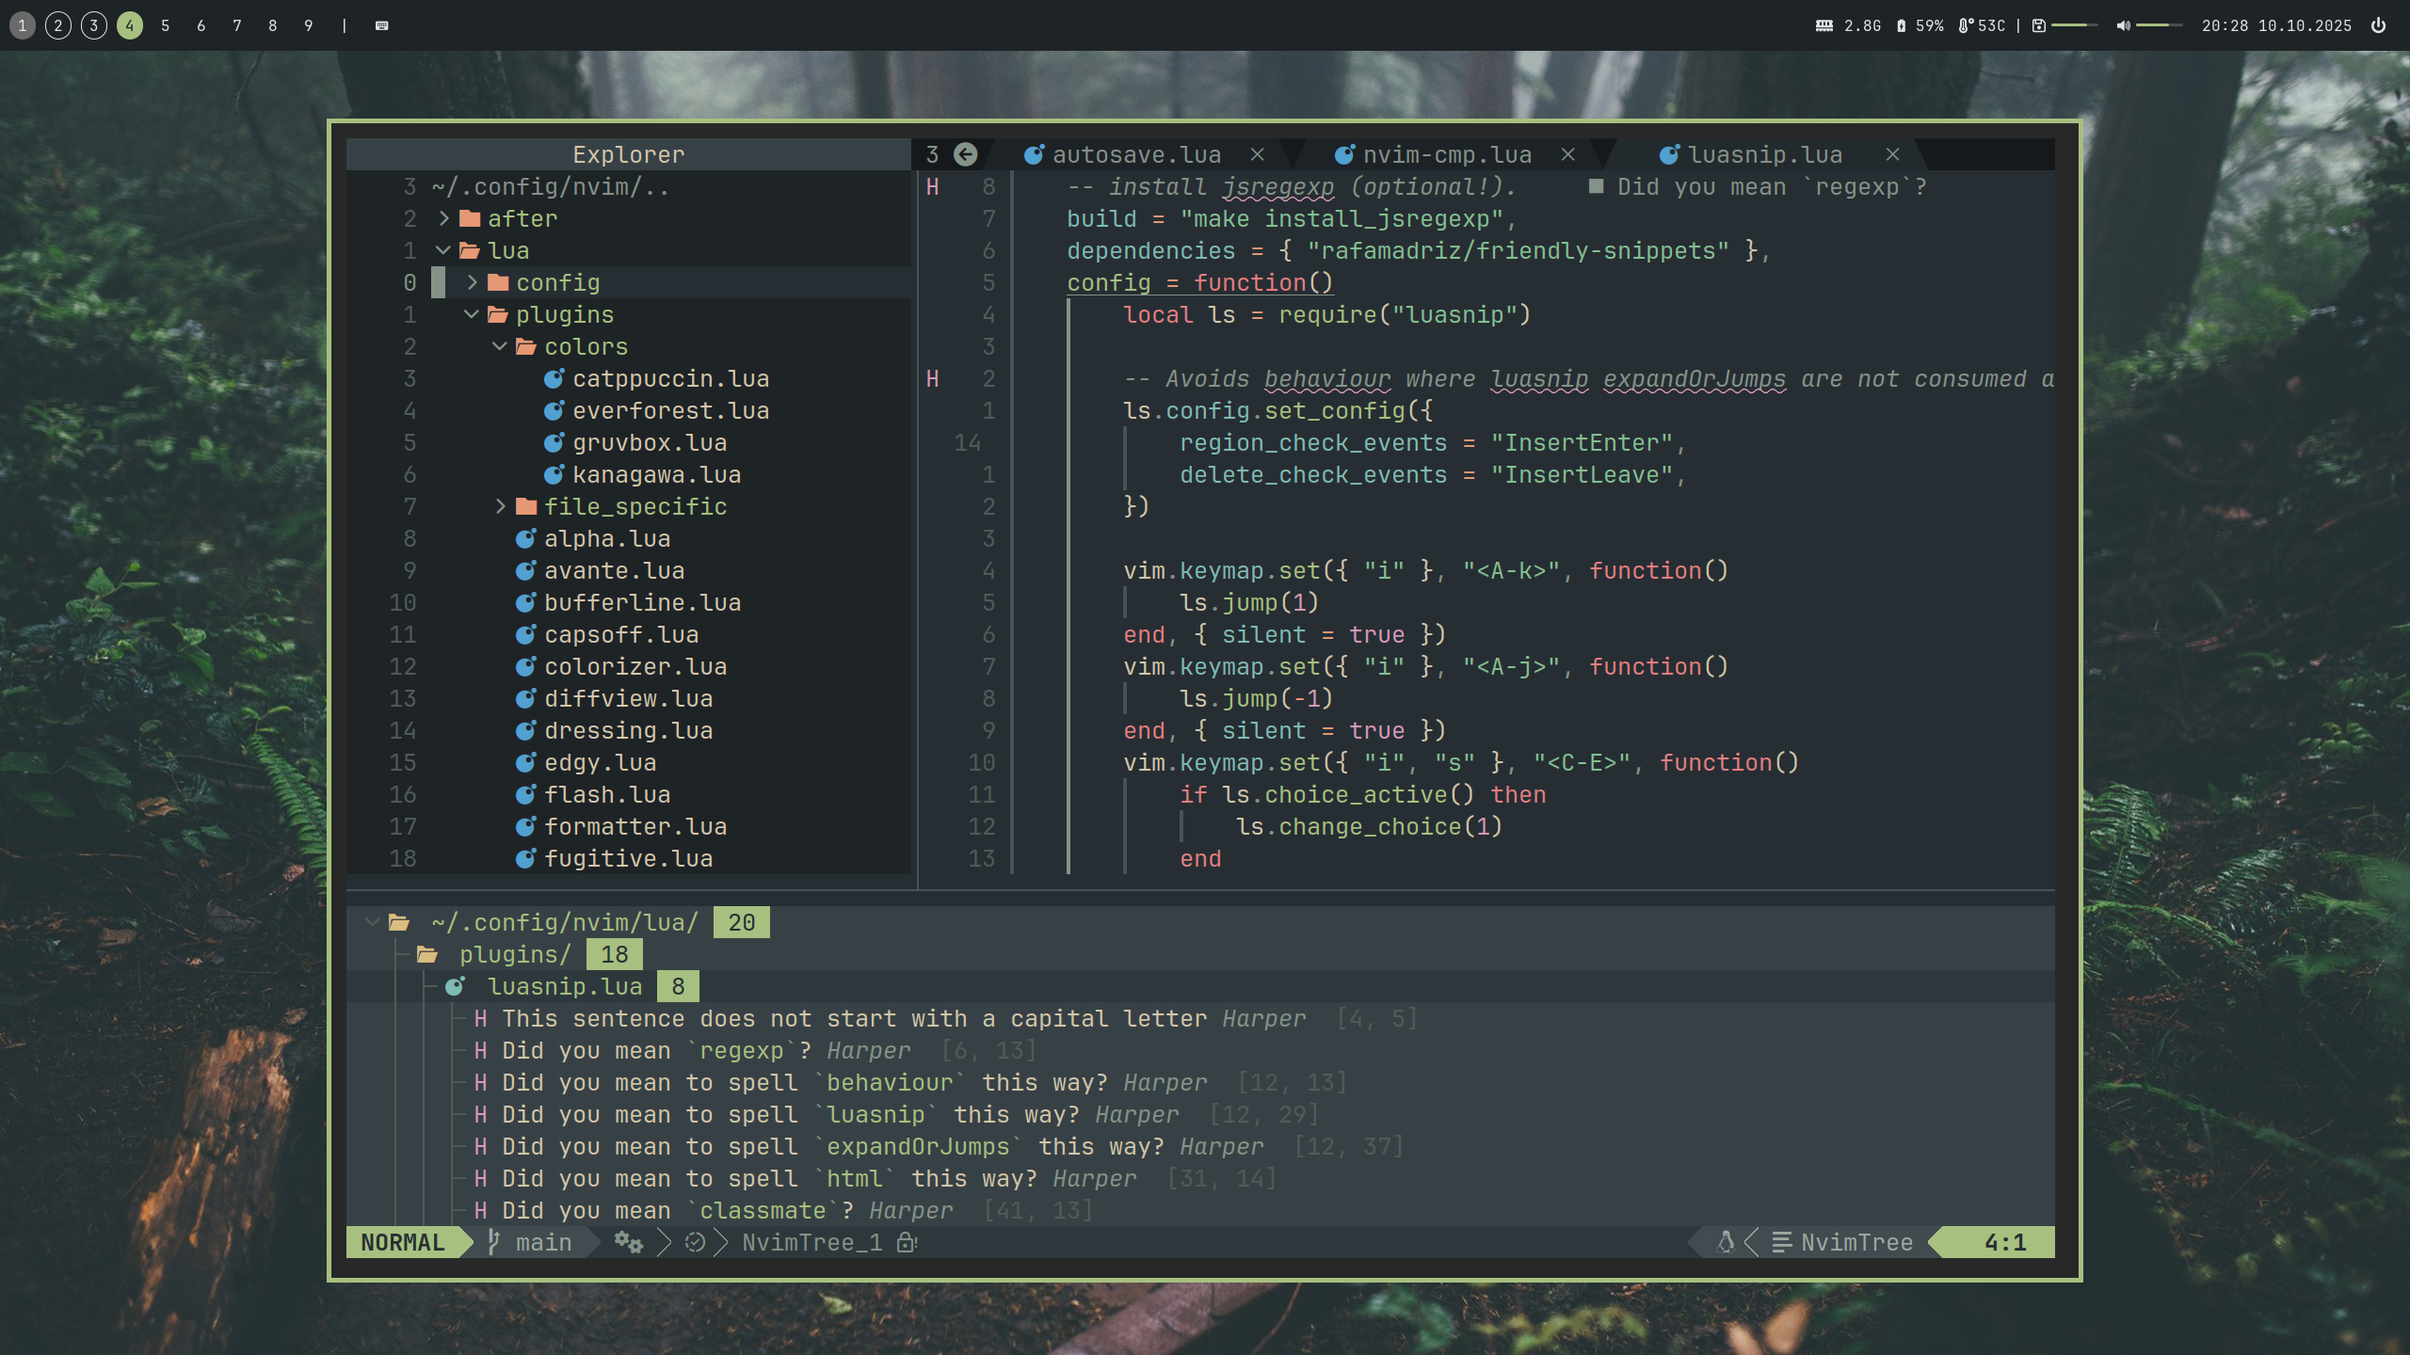
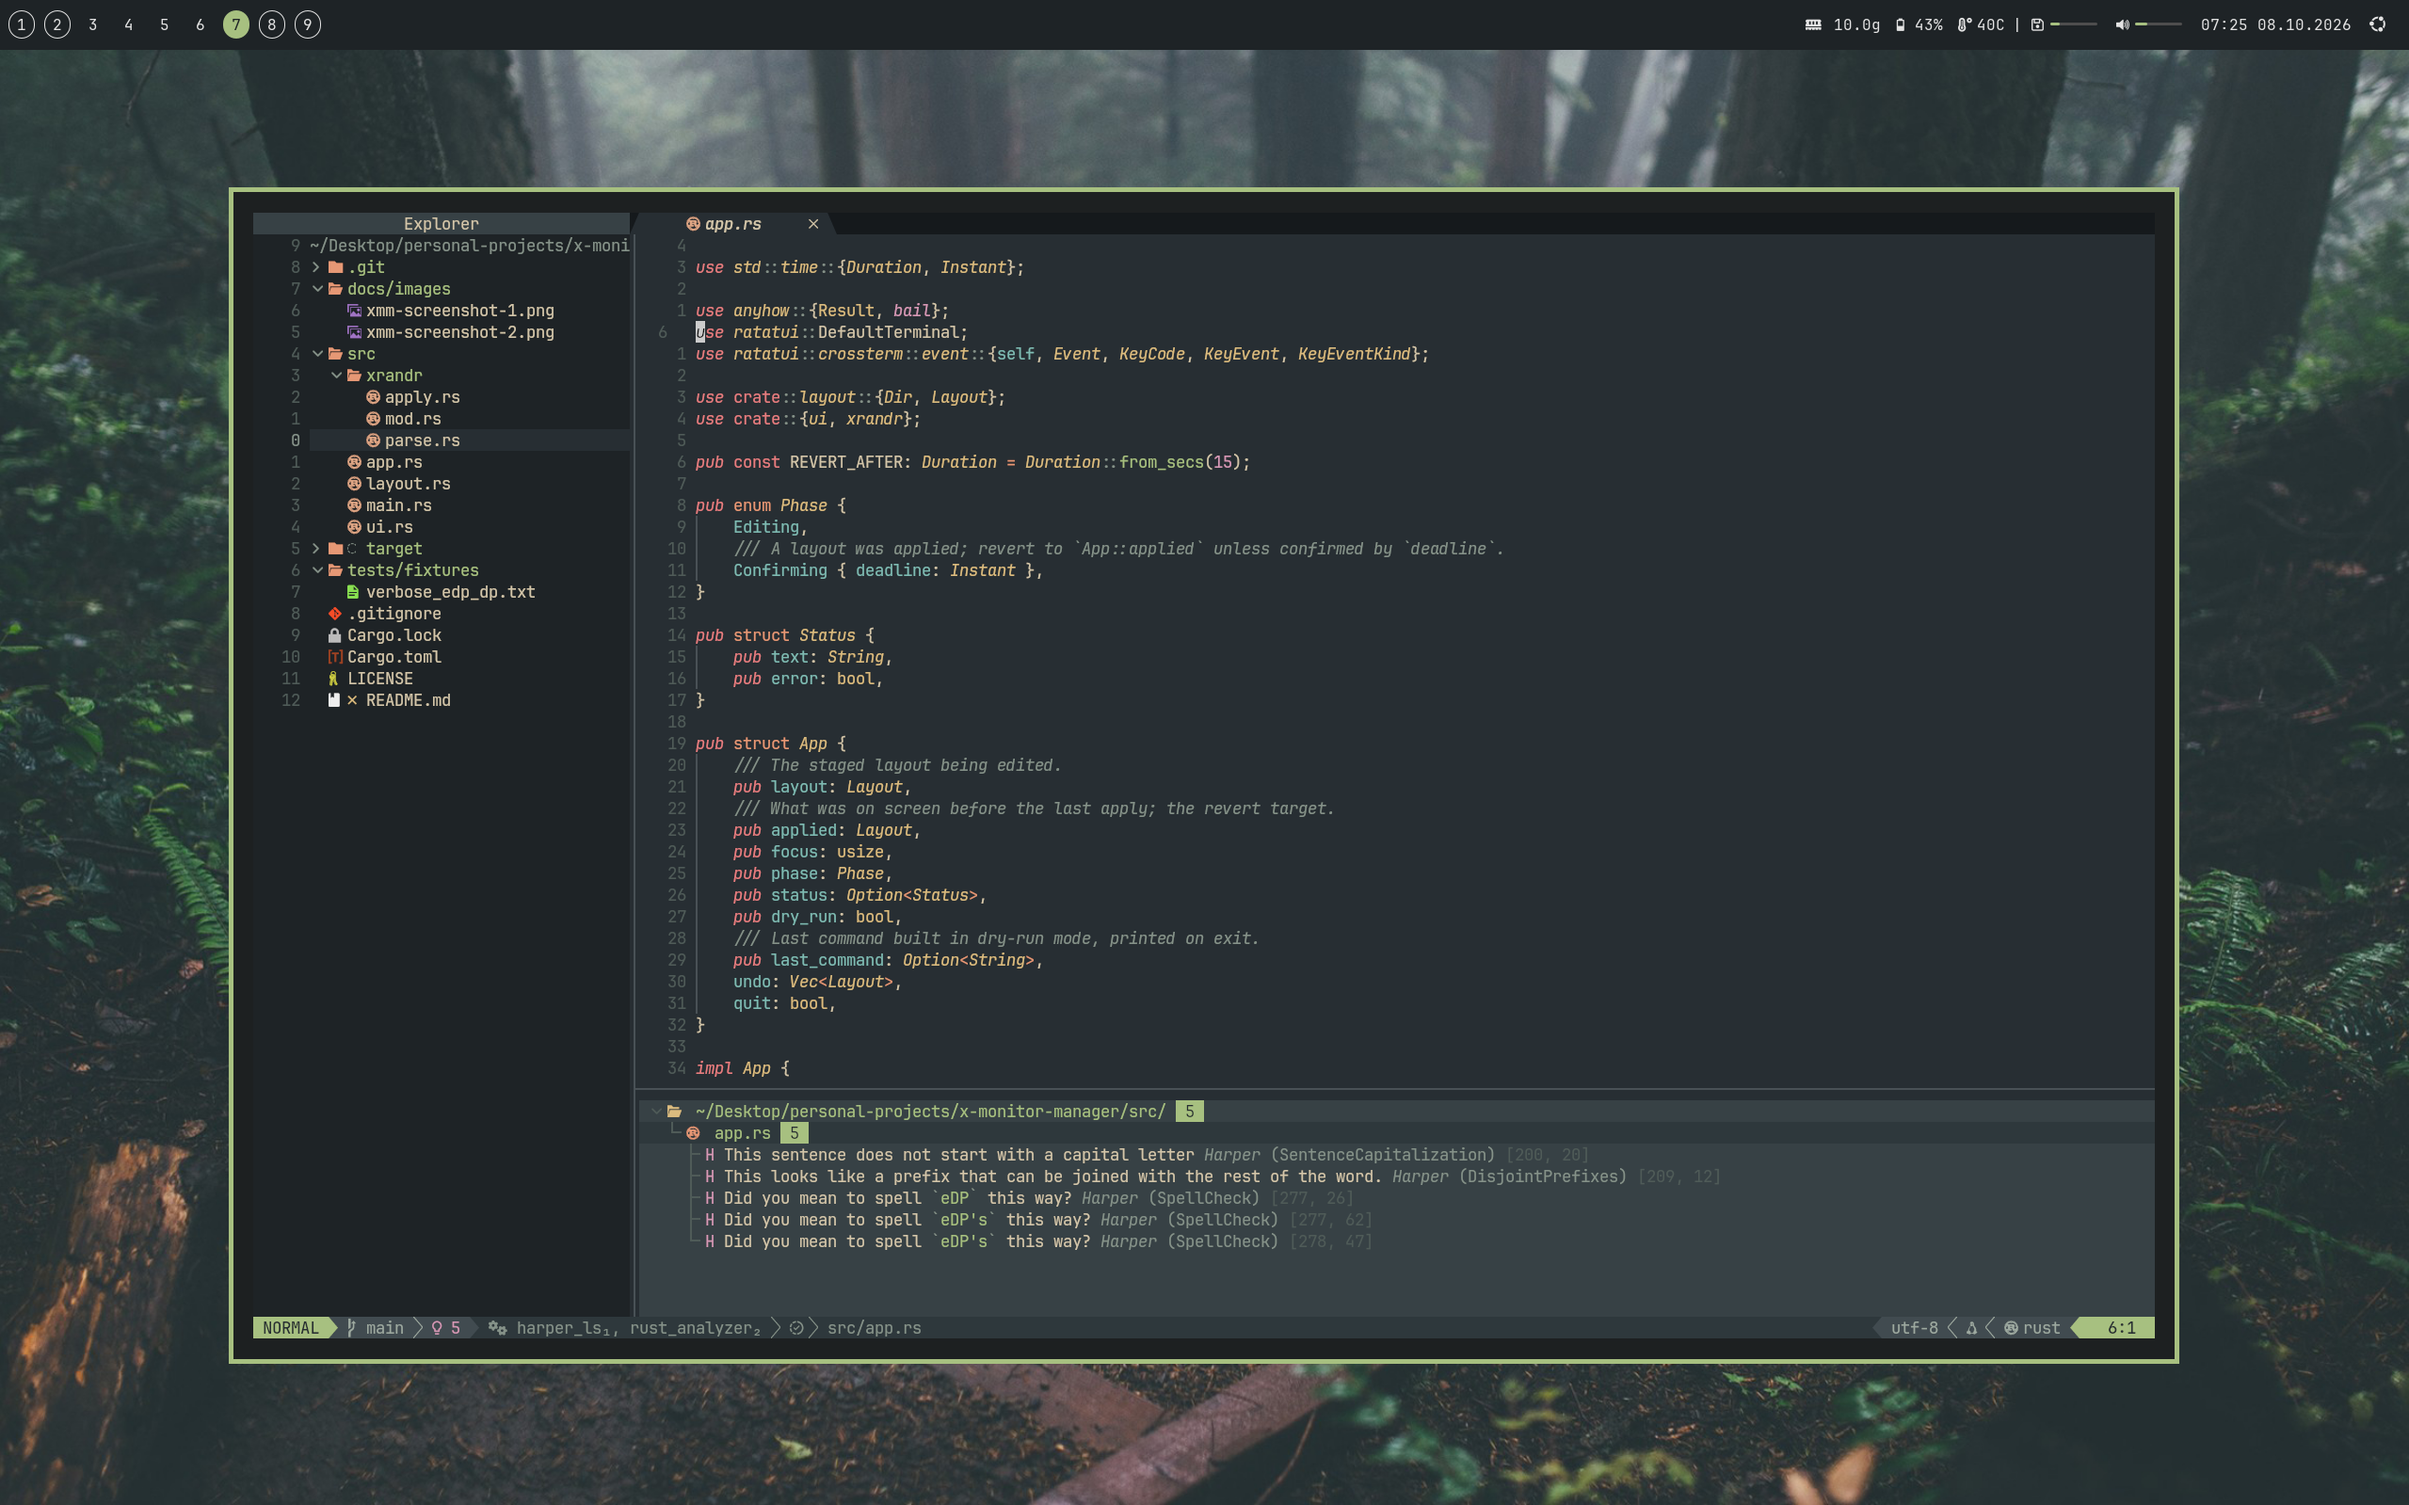
new readme & screenshots

diff --git a/README.md b/README.md
@@ -1,6 +1,6 @@
 # My Linux Desktop Dotfiles
 
-![Screenshot Neofetch/Spotify](./screenshots/spotify.png)
+![Screenshot 1](./screenshots/lazygit-fastfetch-bonsai.png)
 
 My collection of dotfiles with Herbstluftwm window manager and Neovim config, as well as multiple other small files. I have used this configuration actively on Arch Linux and Linux Mint (Ubuntu), both on X11. For these Operating Systems, the chezmoi config can also automatically install required packages.
 
@@ -48,39 +48,40 @@ sudo chmod +x exampleFile.sh
 ## Features
 
 - Productivity focused setup for school and work
-- Lightweight and performant desktop environement
-- [Everforest](https://github.com/sainnhe/everforest)/[Gruvbox Material](https://github.com/sainnhe/gruvbox-material) based colors (green and dark) have been used throughout: In window manager, widgets, neovim, yazi file explorer, spotify, ...
+- Lightweight and performant desktop environment
+- [Everforest](https://github.com/sainnhe/everforest)/[Gruvbox Material](https://github.com/sainnhe/gruvbox-material) based colors (green and dark) have been used throughout: In window manager, widgets, neovim, yazi file explorer, spotify, …
 
 ### Desktop Environment
 
-![Screenshot Powermenu](./screenshots/powermenu.png)
+![Screenshot Powermenu](./screenshots/rofi-and-menu.png)
 
 - Herbstluftwm tiling window manager with custom layouts
 - Eww widgets for bar with tag and system resources overviews
 - Rofi Application Launcher with SSH and window functionality
 
-![Screenshot Rofi](./screenshots/rofi.png)
-
 ### Neovim IDE
 
 ![Screenshot Neovim](./screenshots/nvim.png)
 
-- Out-of-the-box functionality for many languages: Python, JS/TS, Go, HTML/CSS, Lua, Tex, Rust, ...
+- Out-of-the-box functionality for many languages: Python, JS/TS, Go, HTML/CSS, Lua, Tex, Rust, …
 - Lazy-Loaded Plugins to ensure quick startup times
 
-### Other notable Programs
+### Other Notable Programs
 
 - **Terminal:**
   - Alacritty & Kitty configurations
   - Fish shell configuration
   - Custom `clone-term` command to open one or multiple terminals at the same directory location
-- **File Manager:** Yazi with custom vim-based keybinds and gruvbox colorscheme.
+- **File Manager:** Yazi with custom vim-based keybinds and gruvbox color scheme.
 
-## Dotfile guides
+## Dotfile Guides
+
 Under `dotfile-guides/` are documented processes related to setting up your laptop with linux.
 
 ## More Screenshots
 
-![Screenshot File Manager](./screenshots/filemanager.png)
+![Screenshot 4](./screenshots/yazi-btop-xmm.png)
 
-![Screenshot Web](./screenshots/web.png)
+![Screenshot 5](./screenshots/web.png)
+
+![Screenshot 6](./screenshots/filemanager.png)
